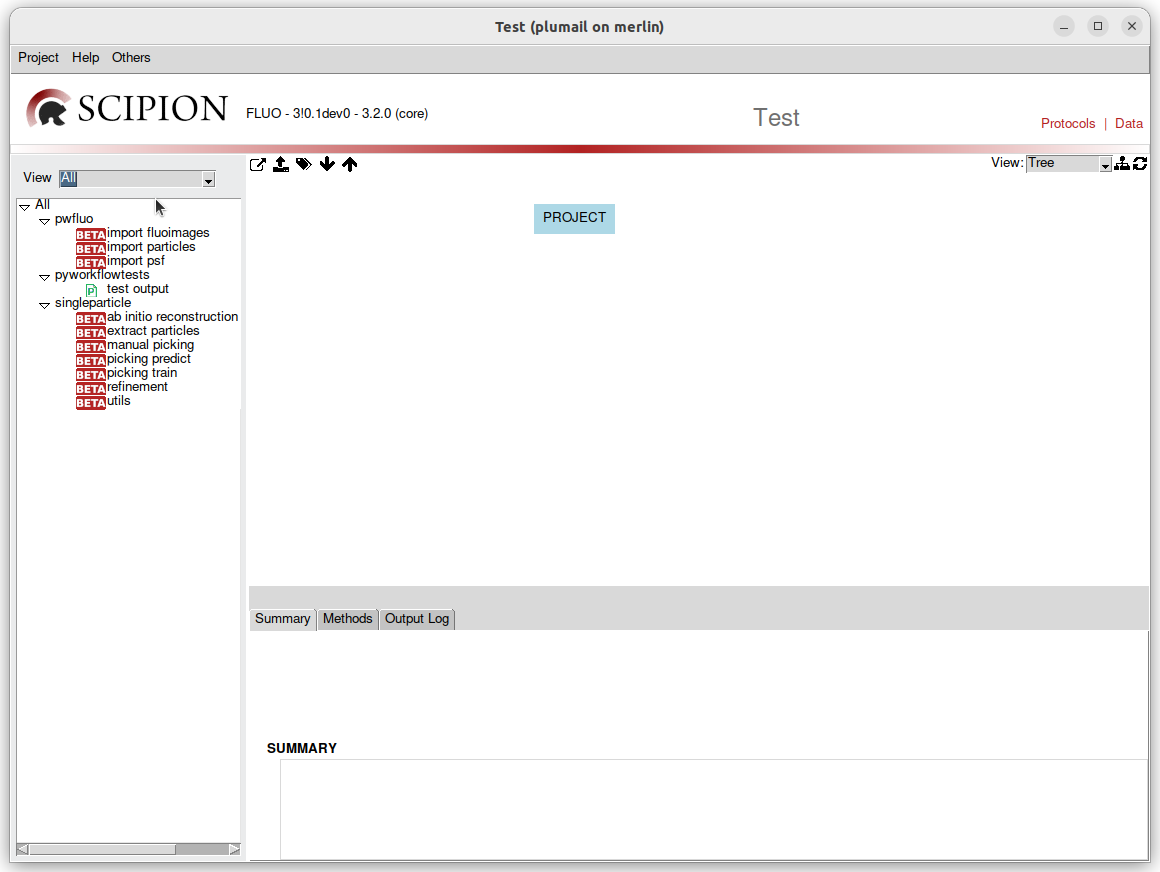
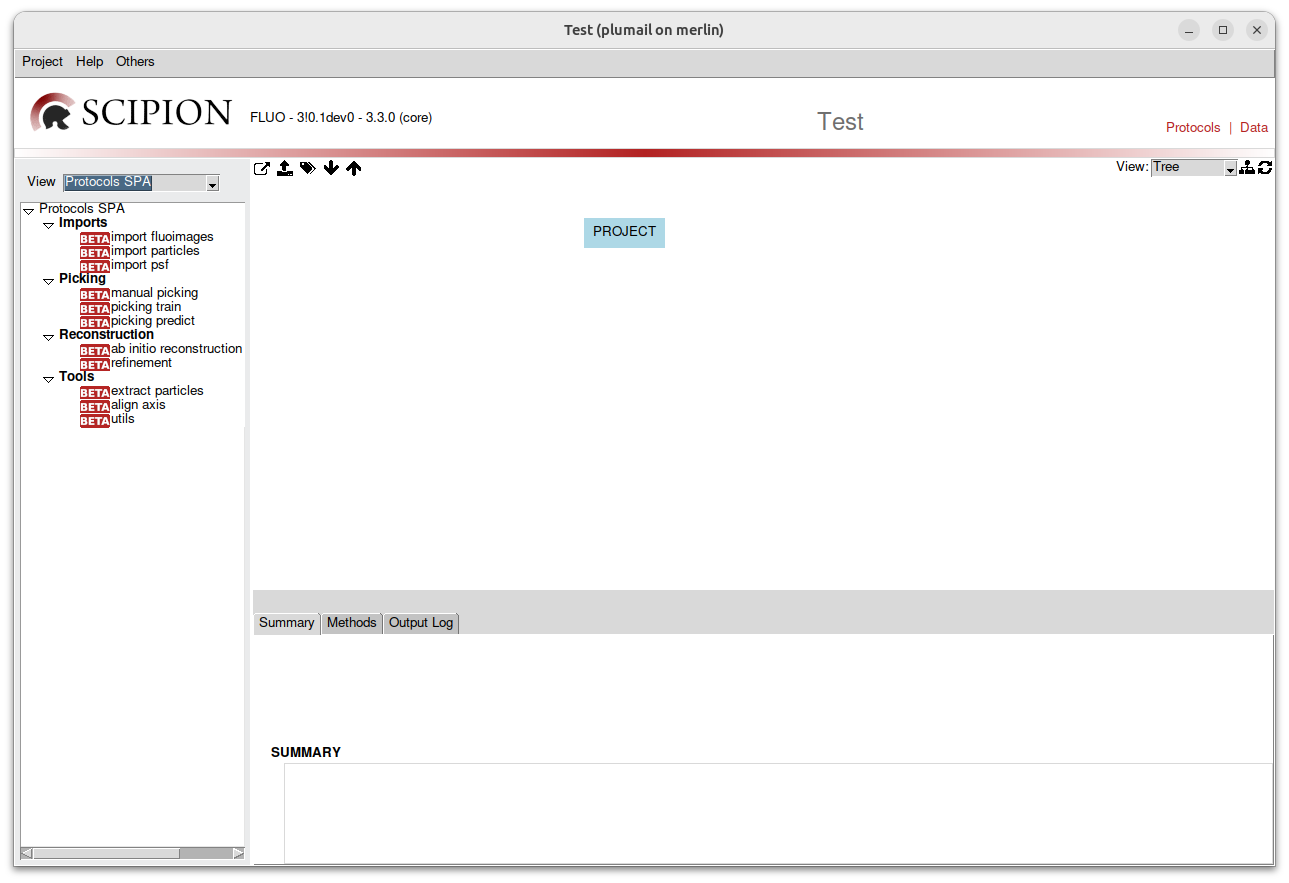
Update import section

Changed region(s): [[0.0, 0.0, 1.0, 1.0], [0.4345, 0.2167, 0.5276, 0.2787], [0.1862, 0.836, 0.2793, 0.867]]

diff --git a/source/usage/tutorial/import-images.rst b/source/usage/tutorial/import-images.rst
@@ -1,20 +1,20 @@
 Importing images
 ----------------
 
-On the left panel click on ``View > All``.
-
 .. image:: ../../_static/empty-project.png
 
 What you see on the left is all the protocols that will populate our workflow. We have:
 
  * imports protocols, used to imports stuff inside the software.
- * single particle protocols, to apply algorithms to the data.
+ * picking protocols, to detect particles in the images.
+ * reconstruciton protocols, to reconstruct a model.
+ * tools, a diverse set of algorithms.
 
 Double-click on the protocol ``import fluoimages``. It should open a window.
 
 .. image:: ../../_static/import-files.png
 
-In the *Files directory* field, select the ``uEXM`` folder that was given with **spfluo-app**. This folder contains the data you will be working with:
+In the *Files directory* field, select the ``isim`` folder that was given with **spfluo-app**. This folder contains the data you will be working with:
 
 .. code-block:: text
 
@@ -27,15 +27,18 @@ In the *Files directory* field, select the ``uEXM`` folder that was given with *
             ├── ...
             └── psf.tiff
 
-The images to import are named ``FOV_XX_MMStack_Pos0.ome.tiff``. To match them, we fill the *pattern* field with ``FOV_*.tiff``. This way, we avoid importing the ``psf.tiff`` file.
+The images to import are named ``FOV_XX_MMStack_Pos0.ome.tiff``. To match them, we fill in the *pattern* field with ``FOV_*.tiff``. This will match all the files that starts with ``FOV_`` and ends with ``.tiff``.
 
-Choose the ``OmeTiffReader`` for the reader, since our images are OME-TIFF files.
+Choose ``Automatic`` for the reader, this will work with our images.
+
+The images have a pixel of size 56nm x 56nm x 150nm. We fill in the acquisition infos in micrometers accordingly.
 
 .. note::
 
-    While OME-TIFF format is well supported by **spfluo-app**, other TIFF formats might not be well read: for instance, the Z dimension may miss.
+    The wizard button can be used to retrieve the infos from the metadata of the images. However, it will not always work! (it doesn't work for our images)
 
-The images have a pixel of size 56nm x 56nm x 150nm. We fill the acquisition info in micrometers accordingly.
+    While OME-TIFF format is well supported by **spfluo-app**, other TIFF formats might not be well read: for instance, the Z dimension may miss, or may be replaced by a temporal dimension.
+    The field ``transpose T<>Z axes when possible?`` enables autocorrect of the dimensions. 
 
 .. image:: ../../_static/import-files-filled.png
 
